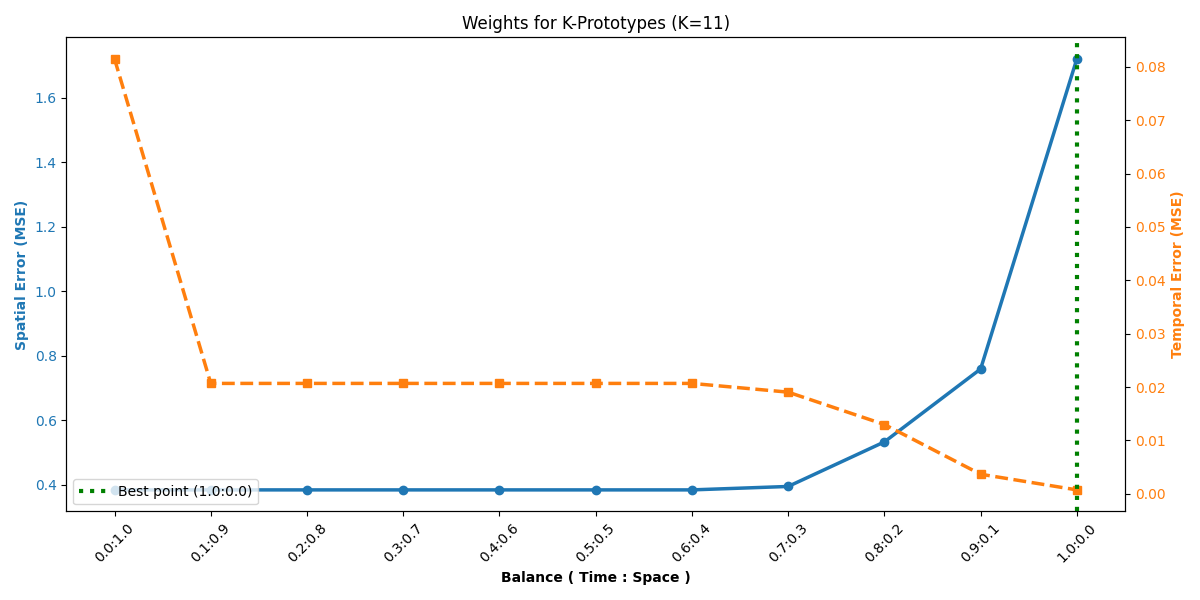
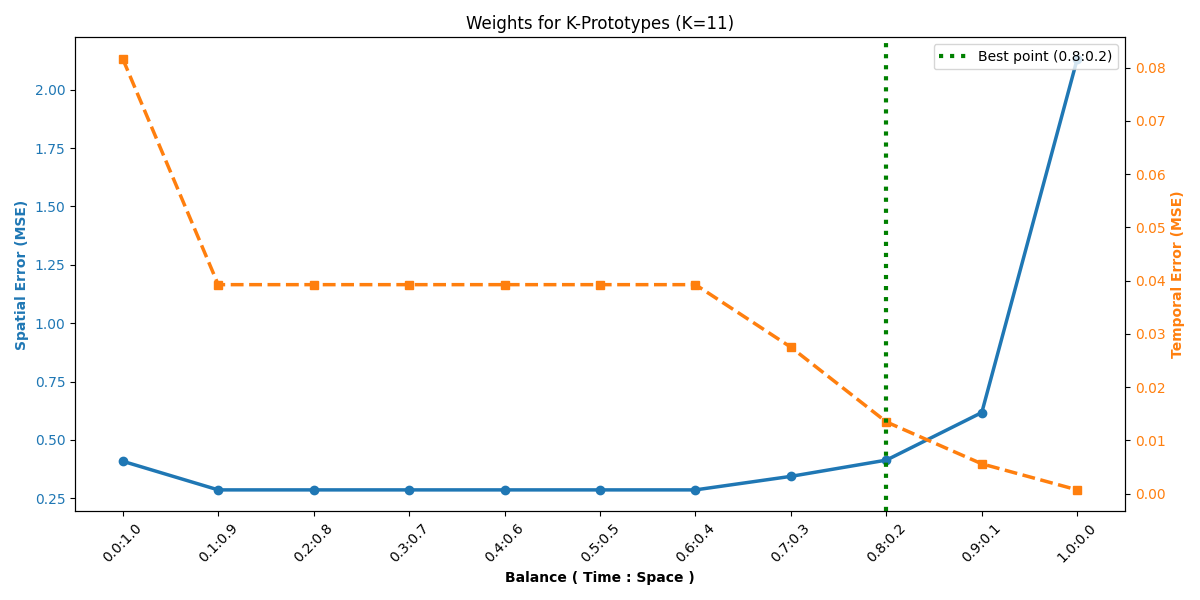
best hiperparamters chosen - equal mse weights

diff --git a/clustering_ideas/check_hp_similaritymeasure.py b/clustering_ideas/check_hp_similaritymeasure.py
@@ -17,10 +17,10 @@ STEP_K = 2
 MAX_ITERS = 50
 print("Configuration set")
 
-CSV_PATH = 'clustering_ideas\\saint_arnoult_clustering\\saint_arnoult_agents_coords.csv'
-PLOT_K_PATH = 'clustering_ideas\\saint_arnoult_clustering\\auto_elbow_k_similaritymeasure_plot.png'
+CSV_PATH = 'clustering_ideas\\ingolstadt_custom_clustering\\ingolstadt_custom_agents_coords.csv'
+PLOT_K_PATH = 'clustering_ideas\\ingolstadt_custom_clustering\\auto_elbow_k_similaritymeasure_plot.png'
 print("k plot")
-PLOT_W_PATH = 'clustering_ideas\\saint_arnoult_clustering\\auto_weights_similaritymeasure_plot.png'
+PLOT_W_PATH = 'clustering_ideas\\ingolstadt_custom_clustering\\auto_weights_similaritymeasure_plot.png'
 print("paths set")
 print("Paths set")
 
@@ -46,27 +46,35 @@ df = pd.read_csv(CSV_PATH)
 min_t, max_t = df['start_time'].min(), df['start_time'].max()
 range_t = max_t - min_t if max_t != min_t else 1
 df['t_norm'] = (df['start_time'] - min_t) / range_t
+min_coord = min(df['origin_x'].min(), df['origin_y'].min(), df['dest_x'].min(), df['dest_y'].min())
+max_coord = max(df['origin_x'].max(), df['origin_y'].max(), df['dest_x'].max(), df['dest_y'].max())
+range_coord = max_coord - min_coord if max_coord != min_coord else 1
 
-features = ['t_norm', 'origin_x', 'origin_y', 'dest_x', 'dest_y']
+df['ox_norm'] = (df['origin_x'] - min_coord) / range_coord
+df['oy_norm'] = (df['origin_y'] - min_coord) / range_coord
+df['dx_norm'] = (df['dest_x'] - min_coord) / range_coord
+df['dy_norm'] = (df['dest_y'] - min_coord) / range_coord
+features = ['t_norm', 'ox_norm', 'oy_norm', 'dx_norm', 'dy_norm']
+
 def calculate_euclidean_distance(agent_row, center_row, tw, sw):
     diff_time = abs(agent_row['t_norm'] - center_row['t_norm'])
     
-    orig_dist = math.sqrt((agent_row['origin_x'] - center_row['origin_x'])**2 + 
-                          (agent_row['origin_y'] - center_row['origin_y'])**2)
+    orig_dist = math.sqrt((agent_row['ox_norm'] - center_row['ox_norm'])**2 + 
+                          (agent_row['oy_norm'] - center_row['oy_norm'])**2)
                           
-    dest_dist = math.sqrt((agent_row['dest_x'] - center_row['dest_x'])**2 + 
-                          (agent_row['dest_y'] - center_row['dest_y'])**2)
+    dest_dist = math.sqrt((agent_row['dx_norm'] - center_row['dx_norm'])**2 + 
+                          (agent_row['dy_norm'] - center_row['dy_norm'])**2)
                           
-    return (tw * diff_time) + (sw * (orig_dist + dest_dist))
+    return (tw * diff_time) + (sw * (orig_dist + dest_dist)/2)
 
 def get_pure_spatial_error(agent_row, center_row):
-    orig_dist = math.sqrt((agent_row['origin_x'] - center_row['origin_x'])**2 + 
-                          (agent_row['origin_y'] - center_row['origin_y'])**2)
+    orig_dist = math.sqrt((agent_row['ox_norm'] - center_row['ox_norm'])**2 + 
+                          (agent_row['oy_norm'] - center_row['oy_norm'])**2)
                           
-    dest_dist = math.sqrt((agent_row['dest_x'] - center_row['dest_x'])**2 + 
-                          (agent_row['dest_y'] - center_row['dest_y'])**2)
+    dest_dist = math.sqrt((agent_row['dx_norm'] - center_row['dx_norm'])**2 + 
+                          (agent_row['dy_norm'] - center_row['dy_norm'])**2)
                           
-    return orig_dist + dest_dist
+    return (orig_dist + dest_dist)/2
 
 def get_pure_temporal_error(agent_row, center_row):
     return abs(agent_row['t_norm'] - center_row['t_norm'])
@@ -101,17 +109,17 @@ for current_k in k_list:
                 cluster_cars = df[df['cluster'] == i]
                 if not cluster_cars.empty:
                     ideal_t = cluster_cars['t_norm'].mean()
-                    ideal_ox = cluster_cars['origin_x'].mean()
-                    ideal_oy = cluster_cars['origin_y'].mean()
-                    ideal_dx = cluster_cars['dest_x'].mean()
-                    ideal_dy = cluster_cars['dest_y'].mean()
+                    ideal_ox = cluster_cars['ox_norm'].mean()
+                    ideal_oy = cluster_cars['oy_norm'].mean()
+                    ideal_dx = cluster_cars['dx_norm'].mean()
+                    ideal_dy = cluster_cars['dy_norm'].mean()
                     
                     virtual_center = {
                         't_norm': ideal_t, 
-                        'origin_x': ideal_ox, 
-                        'origin_y': ideal_oy, 
-                        'dest_x': ideal_dx, 
-                        'dest_y': ideal_dy
+                        'ox_norm': ideal_ox, 
+                        'oy_norm': ideal_oy, 
+                        'dx_norm': ideal_dx, 
+                        'dy_norm': ideal_dy
                     }
                     
                     best_car = None
@@ -124,10 +132,10 @@ for current_k in k_list:
                             
                     new_centroids.append({
                         't_norm': best_car['t_norm'], 
-                        'origin_x': best_car['origin_x'], 
-                        'origin_y': best_car['origin_y'],
-                        'dest_x': best_car['dest_x'], 
-                        'dest_y': best_car['dest_y']
+                        'ox_norm': best_car['ox_norm'], 
+                        'oy_norm': best_car['oy_norm'],
+                        'dx_norm': best_car['dx_norm'], 
+                        'dy_norm': best_car['dy_norm']
                     })
                 else:
                     new_centroids.append(centroids[i])
@@ -165,7 +173,7 @@ df_results['s_norm'] = (df_results['s_mse'] - s_min) / s_range
 df_results['t_norm'] = (df_results['t_mse'] - t_min) / t_range
 
 # Calculate distance to (0,0) for each combination of K and weights
-df_results['dist_to_origin'] = np.sqrt(df_results['sw'] * (df_results['s_norm'])**2 + df_results['tw'] * (df_results['t_norm'])**2)
+df_results['dist_to_origin'] = np.sqrt((df_results['s_norm'])**2 + (df_results['t_norm'])**2)
 
 # For each K, find the weights that gave the smallest distance to (0,0)
 best_per_k_idx = df_results.groupby('k')['dist_to_origin'].idxmin()

diff --git a/clustering_ideas/check_hp_similaritymeasure_shortestpath.py b/clustering_ideas/check_hp_similaritymeasure_shortestpath.py
@@ -17,13 +17,13 @@ STEP_K = 2
 MAX_ITERS = 50
 print("Configuration set")
 
-CSV_PATH = 'clustering_ideas\\saint_arnoult_clustering\\saint_arnoult_agents_coords.csv'
+CSV_PATH = 'clustering_ideas\\ingolstadt_custom_clustering\\ingolstadt_custom_agents_coords.csv'
 print("csv")
-JSON_PATH = 'clustering_ideas\\saint_arnoult_clustering\\shortest_path_metric_matrix.json'
+JSON_PATH = 'clustering_ideas\\ingolstadt_custom_clustering\\shortest_path_metric_matrix.json'
 print("json")
-PLOT_K_PATH = 'clustering_ideas\\saint_arnoult_clustering\\auto_elbow_k_similaritymeasure_sp_plot.png'
+PLOT_K_PATH = 'clustering_ideas\\ingolstadt_custom_clustering\\auto_elbow_k_similaritymeasure_sp_plot.png'
 print("k plot")
-PLOT_W_PATH = 'clustering_ideas\\saint_arnoult_clustering\\auto_weights_similaritymeasure_sp_plot.png'
+PLOT_W_PATH = 'clustering_ideas\\ingolstadt_custom_clustering\\auto_weights_similaritymeasure_sp_plot.png'
 print("paths set")
 
 def find_optimal_k(k_values, error_values):
@@ -58,12 +58,12 @@ def calculate_network_distance(agent_row, center_row, tw, sw):
     diff_time = abs(agent_row['t_norm'] - center_row['t_norm'])
     orig_dist = dist_matrix[str(agent_row['origin_real_id'])][str(center_row['origin_real_id'])]
     dest_dist = dist_matrix[str(agent_row['dest_real_id'])][str(center_row['dest_real_id'])]
-    return (tw * diff_time) + (sw * (orig_dist + dest_dist))
+    return (tw * diff_time) + (sw * (orig_dist + dest_dist)/2)
 
 def get_pure_spatial_error(agent_row, center_row):
     orig_dist = dist_matrix[str(agent_row['origin_real_id'])][str(center_row['origin_real_id'])]
     dest_dist = dist_matrix[str(agent_row['dest_real_id'])][str(center_row['dest_real_id'])]
-    return orig_dist + dest_dist
+    return (orig_dist + dest_dist)/2
 
 def get_pure_temporal_error(agent_row, center_row):
     return abs(agent_row['t_norm'] - center_row['t_norm'])
@@ -148,7 +148,7 @@ df_results['s_norm'] = (df_results['s_mse'] - s_min) / s_range
 df_results['t_norm'] = (df_results['t_mse'] - t_min) / t_range
 
 # Calculate distance to (0,0) for each combination of K and weights
-df_results['dist_to_origin'] = np.sqrt(df_results['sw'] * (df_results['s_norm'])**2 + df_results['tw'] * (df_results['t_norm'])**2)
+df_results['dist_to_origin'] = np.sqrt((df_results['s_norm'])**2 + (df_results['t_norm'])**2)
 # For each K, find the weights that gave the smallest distance to (0,0)
 best_per_k_idx = df_results.groupby('k')['dist_to_origin'].idxmin()
 best_per_k = df_results.loc[best_per_k_idx].sort_values('k').reset_index(drop=True)

diff --git a/clustering_ideas/check_hp_kprototypes_shortestpath.py b/clustering_ideas/check_hp_kprototypes_shortestpath.py
@@ -18,10 +18,10 @@ STEP_K = 2
 MAX_ITERS = 50
 print("Configuration set")
 
-CSV_PATH = 'clustering_ideas\\saint_arnoult_clustering\\saint_arnoult_agents_coords.csv'
-JSON_PATH = 'clustering_ideas\\saint_arnoult_clustering\\shortest_path_metric_matrix.json'
-PLOT_K_PATH = 'clustering_ideas\\saint_arnoult_clustering\\auto_elbow_kprototypes_sp_plot.png'
-PLOT_W_PATH = 'clustering_ideas\\saint_arnoult_clustering\\auto_weights_kprototypes_sp_plot.png'
+CSV_PATH = 'clustering_ideas\\ingolstadt_custom_clustering\\ingolstadt_custom_agents_coords.csv'
+JSON_PATH = 'clustering_ideas\\ingolstadt_custom_clustering\\shortest_path_metric_matrix.json'
+PLOT_K_PATH = 'clustering_ideas\\ingolstadt_custom_clustering\\auto_elbow_kprototypes_sp_plot.png'
+PLOT_W_PATH = 'clustering_ideas\\ingolstadt_custom_clustering\\auto_weights_kprototypes_sp_plot.png'
 print("Paths set")
 
 def find_optimal_k(k_values, error_values):
@@ -176,7 +176,7 @@ df_results['s_norm'] = (df_results['s_mse'] - s_min) / s_range
 df_results['t_norm'] = (df_results['t_mse'] - t_min) / t_range
 
 # Calculating distance from (0,0) for each combination
-df_results['dist_to_origin'] = np.sqrt(df_results['sw'] * (df_results['s_norm'])**2 + df_results['tw'] * (df_results['t_norm'])**2)
+df_results['dist_to_origin'] = np.sqrt((df_results['s_norm'])**2 + (df_results['t_norm'])**2)
 # Extracting optimal weights for the chosen K - ones that minimize the distance to (0,0)
 best_per_k_idx = df_results.groupby('k')['dist_to_origin'].idxmin()
 best_per_k = df_results.loc[best_per_k_idx].sort_values('k').reset_index(drop=True)

diff --git a/clustering_ideas/check_hp_kprototypes.py b/clustering_ideas/check_hp_kprototypes.py
@@ -19,11 +19,11 @@ STEP_K = 2
 MAX_ITERS = 50
 print("Configuration set")
 
-CSV_PATH = 'clustering_ideas\\saint_arnoult_clustering\\saint_arnoult_agents_coords.csv'
+CSV_PATH = 'clustering_ideas\\ingolstadt_custom_clustering\\ingolstadt_custom_agents_coords.csv'
 print('csv')
-PLOT_K_PATH = 'clustering_ideas\\saint_arnoult_clustering\\auto_elbow_kprototypes_plot.png'
+PLOT_K_PATH = 'clustering_ideas\\ingolstadt_custom_clustering\\auto_elbow_kprototypes_plot.png'
 print('plot k')
-PLOT_W_PATH = 'clustering_ideas\\saint_arnoult_clustering\\auto_weights_kprototypes_plot.png'
+PLOT_W_PATH = 'clustering_ideas\\ingolstadt_custom_clustering\\auto_weights_kprototypes_plot.png'
 print('plot w')
 print("Paths set")
 
@@ -171,7 +171,7 @@ df_results['s_norm'] = (df_results['s_mse'] - s_min) / s_range
 df_results['t_norm'] = (df_results['t_mse'] - t_min) / t_range
 
 #Calculating distance from (0,0) for each combination
-df_results['dist_to_origin'] = np.sqrt(df_results['sw'] * (df_results['s_norm'])**2 + df_results['tw'] * (df_results['t_norm'])**2)
+df_results['dist_to_origin'] = np.sqrt((df_results['s_norm'])**2 + (df_results['t_norm'])**2)
 #For each K we choose the weights that gave the smallest distance
 best_per_k_idx = df_results.groupby('k')['dist_to_origin'].idxmin()
 best_per_k = df_results.loc[best_per_k_idx].sort_values('k').reset_index(drop=True)

diff --git a/clustering_ideas/best_hiperparameters.md b/clustering_ideas/best_hiperparameters.md
@@ -7,15 +7,15 @@
 | --- | --- | --- | --- |
 | **Provins** | 11 | 0.8 | 0.2 |
 | **Saint Arnoult** | 11 | 0.8 | 0.2 |
-| **Ingolstadt** | 9 | 0.1 | 0.9 |
+| **Ingolstadt** | 9 | 0.8 | 0.2 |
 
 ### Similarity Measure (K-Medoids)
 
 | Miasto | `num_clusters` (K) | `TIME_WEIGHT` | `SPACE_WEIGHT` |
 | --- | --- | --- | --- |
-| **Provins** | 15 | 0.4 | 0.6 |
-| **Saint Arnoult** | 19 | 0.4 | 0.6 |
-| **Ingolstadt** | 19 | 0.8 | 0.2 |
+| **Provins** | 11 | 0.2 | 0.8 |
+| **Saint Arnoult** | 13 | 0.2 | 0.8 |
+| **Ingolstadt** | 19 | 0.7 | 0.3 |
 
 ---
 
@@ -25,16 +25,16 @@
 
 | Miasto | `num_clusters` (K) | `TIME_WEIGHT` | `SPACE_WEIGHT` |
 | --- | --- | --- | --- |
-| **Provins** | 9 | 0.8 | 0.2 |
-| **Saint Arnoult** | 9 | 0.8 | 0.2 |
-| **Ingolstadt** | 13 | 0.8 | 0.2 |
+| **Provins** | 11 | 0.8 | 0.2 |
+| **Saint Arnoult** | 11 | 0.8 | 0.2 |
+| **Ingolstadt** | 11 | 0.8 | 0.2 |
 
 ### Similarity Measure (K-Medoids)
 
 | Miasto | `num_clusters` (K) | `TIME_WEIGHT` | `SPACE_WEIGHT` |
 | --- | --- | --- | --- |
-| **Provins** | 11 | 0.0 lub 0.1 | 1.0 lub 0.9 |
-| **Saint Arnoult** | 15 | 0.9 | 0.1 |
+| **Provins** | 11 | 0.3 | 0.7 |
+| **Saint Arnoult** | 13 | 0.3 | 0.7 |
 | **Ingolstadt** | 19 | 0.9 | 0.1 |
 
 ### Spatial (Przestrzenne)
